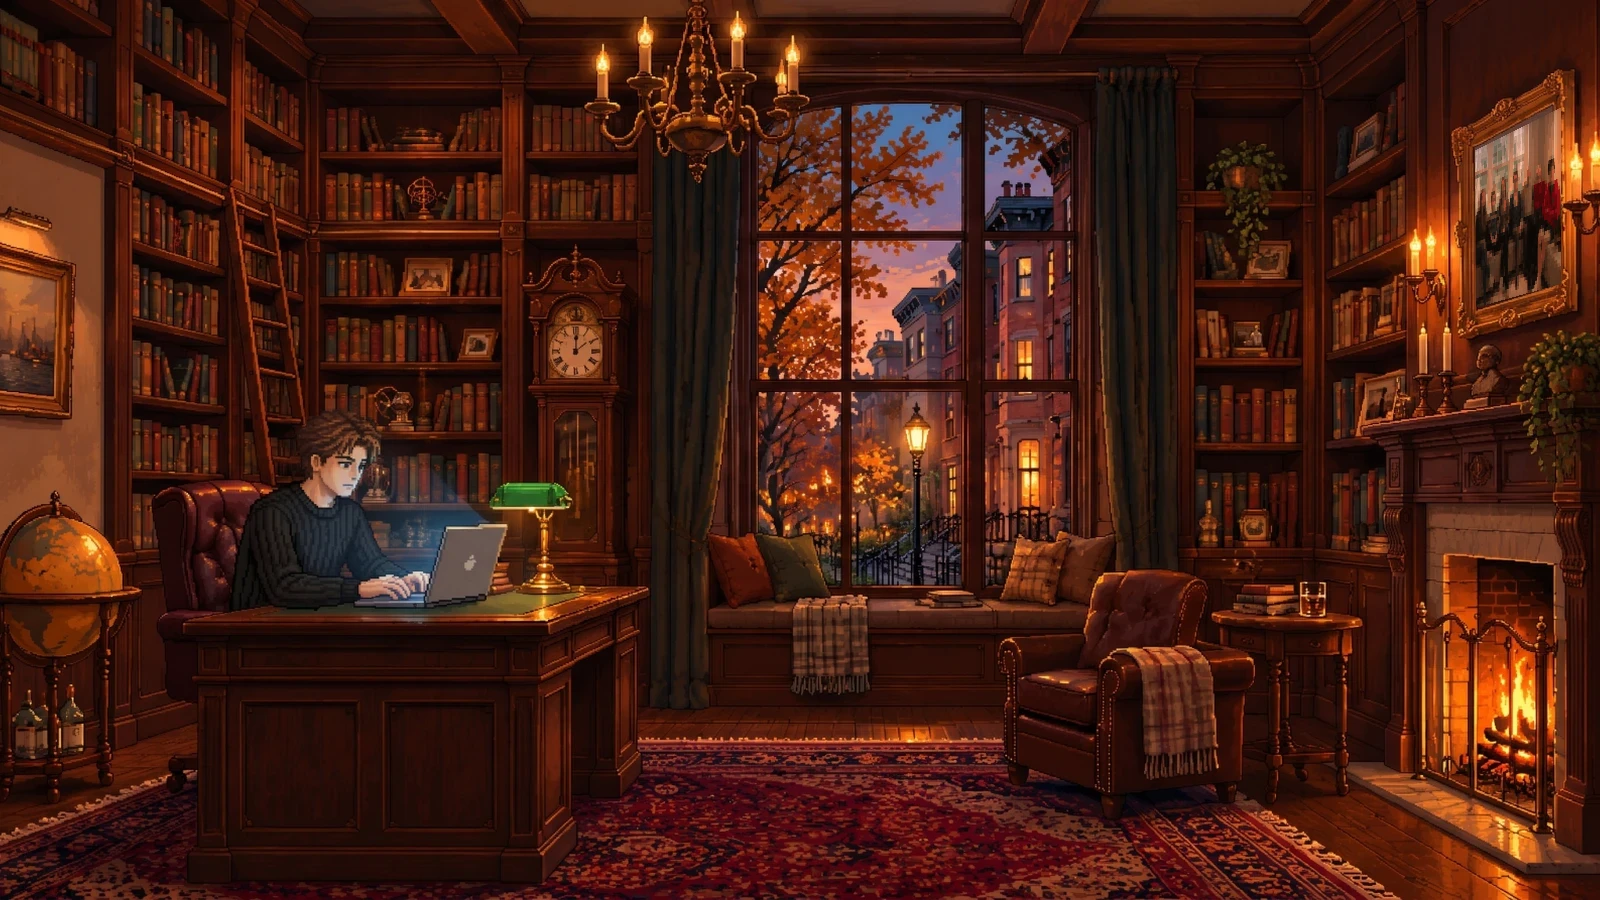
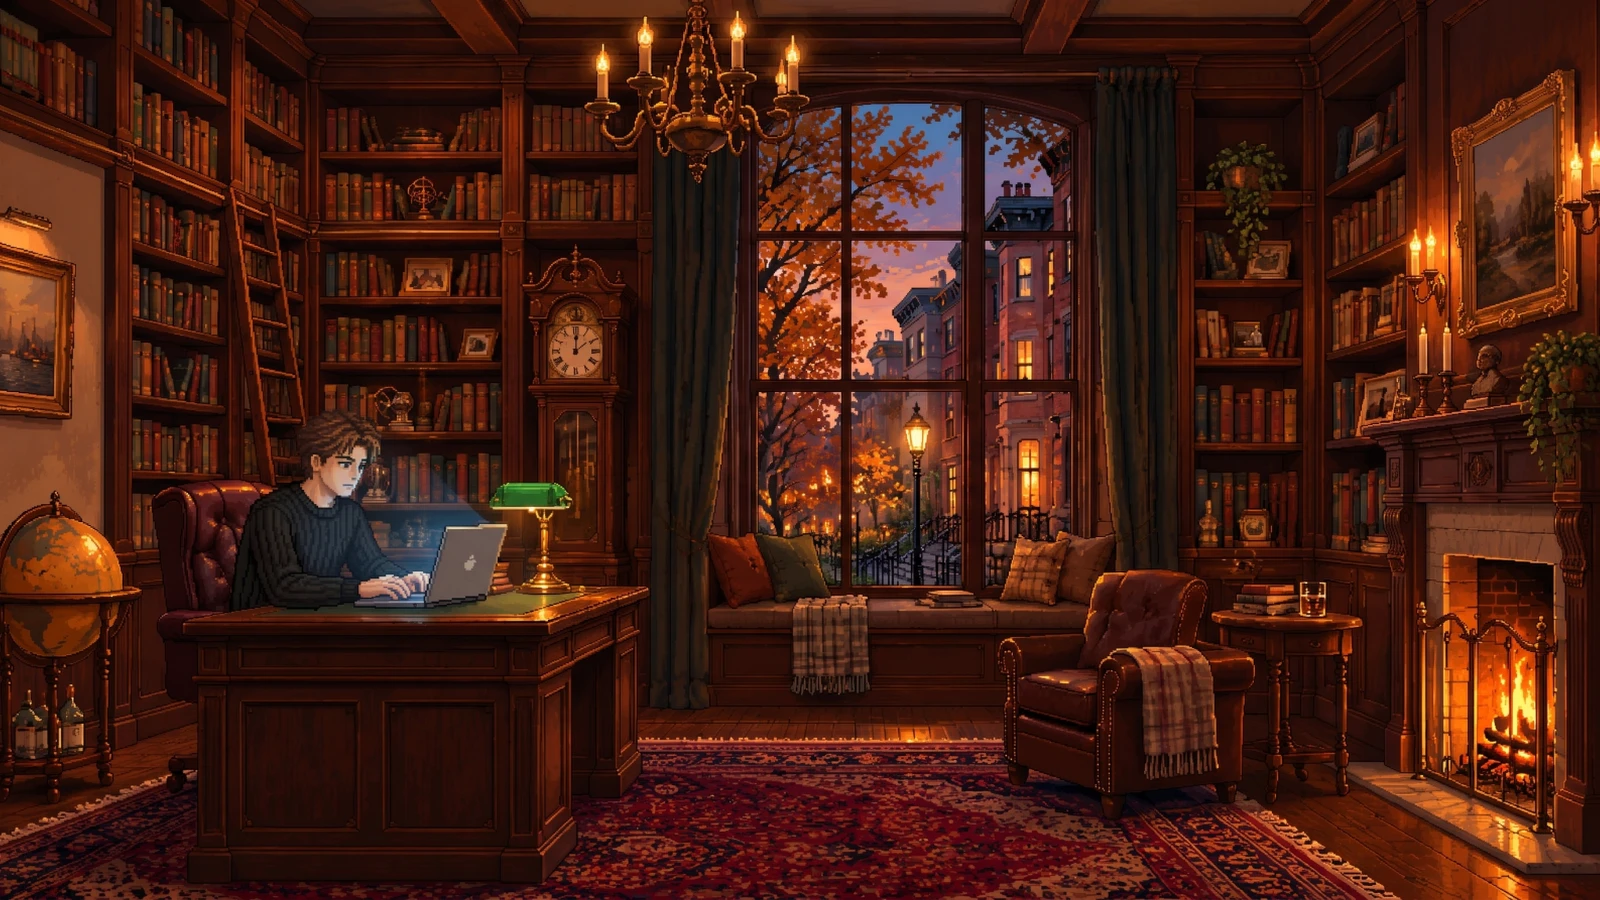
Clown appears inside in line with where he stood outside the window

Changed region(s): [[0.9062, 0.1244, 1.0, 0.3422]]

diff --git a/src/main.js b/src/main.js
@@ -573,6 +573,7 @@ function drawPage(t) {
 // Halloween: every 30 seconds lightning strikes; the clown is suddenly inside, front and center, staring.
 // Three seconds later it strikes again and he is back outside by the lamppost.
 const clownInside = { ...sprites['clown-inside'], img: sprite(sprites['clown-inside'].src) };
+const clownStreet = { ...sprites['clown-street'], img: sprite(sprites['clown-street'].src) };
 const STORM = { first: 10, every: 30, stay: 3 };
 const STRIKE = 0.7; // seconds a strike's flash and bolt last
 let bolt = null;
@@ -607,9 +608,12 @@ function drawLightning(t) {
   const level = flashLevel(k);
   $('flash').style.opacity = (level * 0.75).toFixed(3);
 
-  if (inside && ready(clownInside.img)) {
-    const [x1, y1, x2, y2] = clownInside.rect;
-    blit(clownInside.img, x1, y1, x2 - x1, y2 - y1);
+  if (inside && ready(clownInside.img) && ready(clownStreet.img)) {
+    // the street outside goes empty, and he stands in the room directly in line with where he was
+    let [x1, y1, x2, y2] = clownStreet.rect;
+    blit(clownStreet.img, x1, y1, x2 - x1, y2 - y1);
+    [x1, y1, x2, y2] = clownInside.rect;
+    blit(clownInside.img, x1 + clownInside.dx, y1, x2 - x1, y2 - y1);
   }
 
   if (level > 0) {
